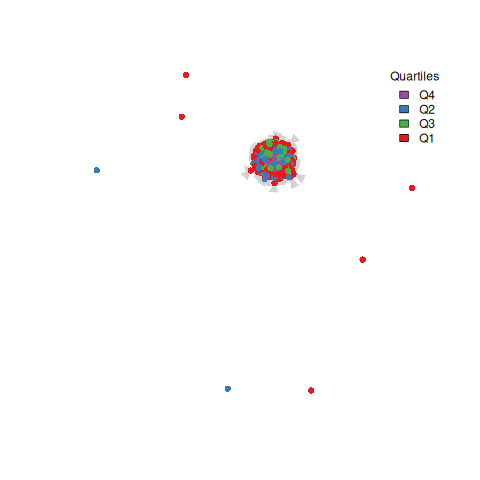
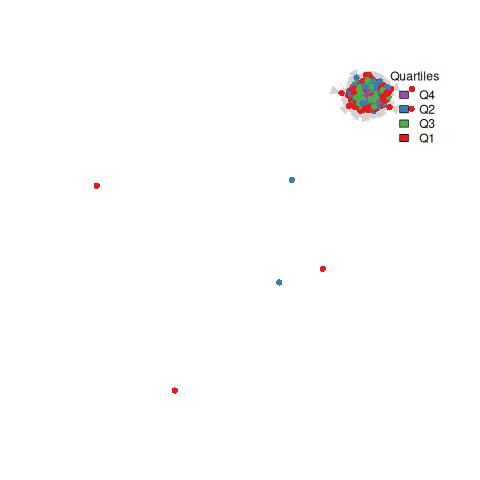
Added to readme the comparison of degree

diff --git a/README.md b/README.md
@@ -4,50 +4,319 @@
 
 ### Graphical evolution
 
-|2021-06-01,2021-12-31|![](images/directed/first/general_Q1.png)|![](images/directed/first/general_Q2.png)|![](images/directed/first/general_Q3.png)|![](images/directed/first/general_Q4.png)|
+|2021-06-01 -> 2021-12-31|![](images/directed/first/general_Q1.png)|![](images/directed/first/general_Q2.png)|![](images/directed/first/general_Q3.png)|![](images/directed/first/general_Q4.png)|
 |---|---|---|---|---|
-|2022-01-01,2022-05-31|![](images/directed/second/general_Q1.png)|![](images/directed/second/general_Q2.png)|![](images/directed/second/general_Q3.png)|![](images/directed/second/general_Q4.png)|
-|2022-06-01,2022-12-31|![](images/directed/third/general_Q1.png)|![](images/directed/third/general_Q2.png)|![](images/directed/third/general_Q3.png)|![](images/directed/third/general_Q4.png)|
-|2023-01-01,2023-05-31|![](images/directed/fourth/general_Q1.png)|![](images/directed/fourth/general_Q2.png)|![](images/directed/fourth/general_Q3.png)|![](images/directed/fourth/general_Q4.png)|
-|2023-06-01,2023-12-31|![](images/directed/fifth/general_Q1.png)|![](images/directed/fifth/general_Q2.png)|![](images/directed/fifth/general_Q3.png)|![](images/directed/fifth/general_Q4.png)|
+|2022-01-01 -> 2022-05-31|![](images/directed/second/general_Q1.png)|![](images/directed/second/general_Q2.png)|![](images/directed/second/general_Q3.png)|![](images/directed/second/general_Q4.png)|
+|2022-06-01 -> 2022-12-31|![](images/directed/third/general_Q1.png)|![](images/directed/third/general_Q2.png)|![](images/directed/third/general_Q3.png)|![](images/directed/third/general_Q4.png)|
+|2023-01-01 -> 2023-05-31|![](images/directed/fourth/general_Q1.png)|![](images/directed/fourth/general_Q2.png)|![](images/directed/fourth/general_Q3.png)|![](images/directed/fourth/general_Q4.png)|
+|2023-06-01 -> 2023-12-31|![](images/directed/fifth/general_Q1.png)|![](images/directed/fifth/general_Q2.png)|![](images/directed/fifth/general_Q3.png)|![](images/directed/fifth/general_Q4.png)|
 
 ### Analysis
 
 #### Degree distribution
 
-The following are the top 10 nodes for degree values (without loops).
+##### First period
 
-|     | Author     | Degree |
-|-----|------------|--------|
-| 1   | k00b       | 181    |
-| 2   | nout       | 94     |
-| 3   | CypherPoet | 59     |
-| 4   | DarthCoin  | 58     |
-| 5   | dergigi    | 53     |
-| 6   | ugmug      | 51     |
-| 7   | relc       | 50     |
-| 8   | gmd        | 46     |
-| 9   | jimmysong  | 46     |
-| 10  | g4ala      | 40     |
+**TOTAL DEGREE TABLE**
 
--   Mean degree: 6.61875
--   Median degree: 2
+|   | author      | in_degr | out_degr | tot_degr |
+|---|-------------|---------|----------|----------|
+| 1 | k00b        | 152     | 171      | 323      |
+| 2 | nout        | 77      | 77       | 154      |
+| 3 | DarthCoin   | 49      | 52       | 101      |
+| 4 | ugmug       | 40      | 47       | 87       |
+| 5 | dergigi     | 48      | 38       | 86       |
+| 6 | gmd         | 38      | 44       | 82       |
+| 7 | relc        | 28      | 50       | 78       |
+| 8 | CypherPoet  | 53      | 24       | 77       |
+| 9 | jimmysong   | 47      | 28       | 75       |
+|10 | g4ala       | 32      | 35       | 67       |
 
-![](images/first/degree_distribution.png)
+-   Mean degree: 10.38037
+-   Median degree: 3
 
-The following moderators were active during this time period:
+**IN-DEGREE TABLE**
 
-|     | Author       | Degree |
-|-----|--------------|--------|
-| 1   | k00b         | 181    |
-| 2   | kr           | 27     |
-| 3   | benthecarman | 1      |
+|   | author      | in_degr | out_degr | tot_degr |
+|---|-------------|---------|----------|----------|
+| 1 | k00b        | 152     | 171      | 323      |
+| 2 | nout        | 77      | 77       | 154      |
+| 3 | CypherPoet  | 53      | 24       | 77       |
+| 4 | DarthCoin   | 49      | 52       | 101      |
+| 5 | dergigi     | 48      | 38       | 86       |
+| 6 | jimmysong   | 47      | 28       | 75       |
+| 7 | ugmug       | 40      | 47       | 87       |
+| 8 | gmd         | 38      | 44       | 82       |
+| 9 | g4ala       | 32      | 35       | 67       |
+|10 | relc        | 28      | 50       | 78       |
 
+- Mean degree: 5.190184
+- Median degree: 1
+
+**OUT-DEGREE TABLE**
+
+|   | author      | in_degr | out_degr | tot_degr |
+|---|-------------|---------|----------|----------|
+| 1 | k00b        | 152     | 171      | 323      |
+| 2 | nout        | 77      | 77       | 154      |
+| 3 | DarthCoin   | 49      | 52       | 101      |
+| 4 | relc        | 28      | 50       | 78       |
+| 5 | ugmug       | 40      | 47       | 87       |
+| 6 | gmd         | 38      | 44       | 82       |
+| 7 | dergigi     | 48      | 38       | 86       |
+| 8 | g4ala       | 32      | 35       | 67       |
+| 9 | ThrillerX   | 20      | 32       | 52       |
+|10 | jimmysong   | 47      | 28       | 75       |
+
+- Mean degree: 5.190184
+- Median degree: 1
+
+**CONTRIBUTORS DEGREE**
+
+![](images/directed/first/general_contributors_degree.png)
+
+##### Second period
+
+**TOTAL DEGREE TABLE**
+
+|   | author        | in_degr | out_degr | tot_degr |
+|---|---------------|---------|----------|----------|
+| 1 | k00b          | 287     | 354      | 641      |
+| 2 | DarthCoin     | 188     | 218      | 406      |
+| 3 | nout          | 172     | 215      | 387      |
+| 4 | cryptocoin    | 158     | 200      | 358      |
+| 5 | TheBTCManual  | 91      | 151      | 242      |
+| 6 | zuspotirko    | 98      | 128      | 226      |
+| 7 | kr            | 132     | 89       | 221      |
+| 8 | cointastical  | 104     | 112      | 216      |
+| 9 | Majjin        | 75      | 115      | 190      |
+|10 | kilianbuhn    | 88      | 102      | 190      |
+
+-   Mean degree: 19.88305
+-   Median degree: 4
+
+**IN-DEGREE TABLE**
+
+|   | author        | in_degr | out_degr | tot_degr |
+|---|---------------|---------|----------|----------|
+| 1 | k00b          | 287     | 354      | 641      |
+| 2 | DarthCoin     | 188     | 218      | 406      |
+| 3 | nout          | 172     | 215      | 387      |
+| 4 | cryptocoin    | 158     | 200      | 358      |
+| 5 | saloon        | 153     | 0        | 153      |
+| 6 | kr            | 132     | 89       | 221      |
+| 7 | UlfMoby       | 114     | 64       | 178      |
+| 8 | CypherPoet    | 108     | 33       | 141      |
+| 9 | cointastical  | 104     | 112      | 216      |
+|10 | zuspotirko    | 98      | 128      | 226      |
+
+- Mean degree: 9.941527
+- Median degree: 2
+
+**OUT-DEGREE TABLE**
+
+|   | author        | in_degr | out_degr | tot_degr |
+|---|---------------|---------|----------|----------|
+| 1 | k00b          | 287     | 354      | 641      |
+| 2 | DarthCoin     | 188     | 218      | 406      |
+| 3 | nout          | 172     | 215      | 387      |
+| 4 | cryptocoin    | 158     | 200      | 358      |
+| 5 | TheBTCManual  | 91      | 151      | 242      |
+| 6 | zuspotirko    | 98      | 128      | 226      |
+| 7 | Majjin        | 75      | 115      | 190      |
+| 8 | cointastical  | 104     | 112      | 216      |
+| 9 | BlokchainB    | 83      | 106      | 189      |
+|10 | kilianbuhn    | 88      | 102      | 190      |
+
+- Mean degree: 9.941527
+- Median degree: 2
+
+**CONTRIBUTORS DEGREE**
+
+![](images/directed/second/general_contributors_degree.png)
+
+##### Third period
+
+**TOTAL DEGREE TABLE**
+
+|   | author          | in_degr | out_degr | tot_degr |
+|---|-----------------|---------|----------|----------|
+| 1 | k00b            | 588     | 617      | 1205     |
+| 2 | DarthCoin       | 386     | 537      | 923      |
+| 3 | cryptocoin      | 406     | 445      | 851      |
+| 4 | kr              | 475     | 248      | 723      |
+| 5 | nym             | 38      | 646      | 684      |
+| 6 | siggy47         | 267     | 330      | 597      |
+| 7 | nerd2ninja      | 231     | 342      | 573      |
+| 8 | tomlaies        | 274     | 293      | 567      |
+| 9 | faithandcredit  | 238     | 308      | 546      |
+|10 | kilianbuhn      | 219     | 291      | 510      |
+
+-   Mean degree: 29.33725
+-   Median degree: 5
+
+**IN-DEGREE TABLE**
+
+|   | author          | in_degr | out_degr | tot_degr |
+|---|-----------------|---------|----------|----------|
+| 1 | k00b            | 588     | 617      | 1205     |
+| 2 | kr              | 475     | 248      | 723      |
+| 3 | cryptocoin      | 406     | 445      | 851      |
+| 4 | DarthCoin       | 386     | 537      | 923      |
+| 5 | saloon          | 331     | 0        | 331      |
+| 6 | sn              | 325     | 8        | 333      |
+| 7 | tomlaies        | 274     | 293      | 567      |
+| 8 | siggy47         | 267     | 330      | 597      |
+| 9 | faithandcredit  | 238     | 308      | 546      |
+|10 | User21000000    | 236     | 158      | 394      |
+
+- Mean degree: 14.66863
+- Median degree: 3
+
+**OUT-DEGREE TABLE**
+
+|   | author          | in_degr | out_degr | tot_degr |
+|---|-----------------|---------|----------|----------|
+| 1 | nym             | 38      | 646      | 684      |
+| 2 | k00b            | 588     | 617      | 1205     |
+| 3 | DarthCoin       | 386     | 537      | 923      |
+| 4 | cryptocoin      | 406     | 445      | 851      |
+| 5 | nerd2ninja      | 231     | 342      | 573      |
+| 6 | siggy47         | 267     | 330      | 597      |
+| 7 | TheBTCManual    | 170     | 316      | 486      |
+| 8 | faithandcredit  | 238     | 308      | 546      |
+| 9 | selfish         | 77      | 300      | 377      |
+|10 | tomlaies        | 274     | 293      | 567      |
+
+- Mean degree: 14.66863
+- Median degree: 2
+
+**CONTRIBUTORS DEGREE**
+
+![](images/directed/third/general_contributors_degree.png)
+
+##### Fourth period
+
+**TOTAL DEGREE TABLE**
+
+|   | author             | in_degr | out_degr | tot_degr |
+|---|--------------------|---------|----------|----------|
+| 1 | DarthCoin          | 576     | 737      | 1313     |
+| 2 | siggy47            | 427     | 532      | 959      |
+| 3 | k00b               | 394     | 329      | 723      |
+| 4 | nym                | 137     | 530      | 667      |
+| 5 | ekzyis             | 296     | 322      | 618      |
+| 6 | TNStacker          | 164     | 452      | 616      |
+| 7 | BitcoinIsTheFuture | 263     | 320      | 583      |
+| 8 | kepford            | 163     | 404      | 567      |
+| 9 | kr                 | 333     | 226      | 559      |
+|10 | sn                 | 507     | 16       | 523      |
+
+-   Mean degree: 24.50309
+-   Median degree: 5
+
+**IN-DEGREE TABLE**
+
+|   | author             | in_degr | out_degr | tot_degr |
+|---|--------------------|---------|----------|----------|
+| 1 | DarthCoin          | 576     | 737      | 1313     |
+| 2 | sn                 | 507     | 16       | 523      |
+| 3 | siggy47            | 427     | 532      | 959      |
+| 4 | k00b               | 394     | 329      | 723      |
+| 5 | kr                 | 333     | 226      | 559      |
+| 6 | ekzyis             | 296     | 322      | 618      |
+| 7 | saloon             | 288     | 0        | 288      |
+| 8 | BitcoinIsTheFuture | 263     | 320      | 583      |
+| 9 | cryptocoin         | 240     | 223      | 463      |
+|10 | grayruby           | 210     | 271      | 481      |
+
+- Mean degree: 12.25155
+- Median degree: 3
+
+**OUT-DEGREE TABLE**
+
+|   | author          | in_degr | out_degr | tot_degr |
+|---|-----------------|---------|----------|----------|
+| 1 | nym             | 38      | 646      | 684      |
+| 2 | k00b            | 588     | 617      | 1205     |
+| 3 | DarthCoin       | 386     | 537      | 923      |
+| 4 | cryptocoin      | 406     | 445      | 851      |
+| 5 | nerd2ninja      | 231     | 342      | 573      |
+| 6 | siggy47         | 267     | 330      | 597      |
+| 7 | TheBTCManual    | 170     | 316      | 486      |
+| 8 | faithandcredit  | 238     | 308      | 546      |
+| 9 | selfish         | 77      | 300      | 377      |
+|10 | tomlaies        | 274     | 293      | 567      |
+
+- Mean degree: 12.25155
+- Median degree: 2
+
+**CONTRIBUTORS DEGREE**
+
+![](images/directed/fourth/general_contributors_degree.png)
+
+##### Fifth period
+
+**TOTAL DEGREE TABLE**
+
+|   | author       | in_degr | out_degr | tot_degr |
+|---|--------------|---------|----------|----------|
+| 1 | birdeye21    | 628     | 338      | 966      |
+| 2 | DarthCoin    | 393     | 540      | 933      |
+| 3 | siggy47      | 387     | 511      | 898      |
+| 4 | k00b         | 475     | 404      | 879      |
+| 5 | kepford      | 222     | 465      | 687      |
+| 6 | ekzyis       | 309     | 318      | 627      |
+| 7 | nemo         | 228     | 381      | 609      |
+| 8 | sn           | 502     | 19       | 521      |
+| 9 | grayruby     | 217     | 261      | 478      |
+|10 | mallardshead | 207     | 241      | 448      |
+
+-   Mean degree:31.73962
+-   Median degree: 6
+
+**IN-DEGREE TABLE**
+
+|   | author           | in_degr | out_degr | tot_degr |
+|---|------------------|---------|----------|----------|
+| 1 | birdeye21        | 628     | 338      | 966      |
+| 2 | sn               | 502     | 19       | 521      |
+| 3 | k00b             | 475     | 404      | 879      |
+| 4 | DarthCoin        | 393     | 540      | 933      |
+| 5 | siggy47          | 387     | 511      | 898      |
+| 6 | ekzyis           | 309     | 318      | 627      |
+| 7 | kr               | 270     | 114      | 384      |
+| 8 | saloon           | 247     | 1        | 248      |
+| 9 | AR0w             | 242     | 60       | 302      |
+|10 | Thatfunkymonkey  | 232     | 204      | 436      |
+
+- Mean degree: 15.86981
+- Median degree: 3
+
+**OUT-DEGREE TABLE**
+
+|   | author          | in_degr | out_degr | tot_degr |
+|---|-----------------|---------|----------|----------|
+| 1 | DarthCoin       | 393     | 540      | 933      |
+| 2 | siggy47         | 387     | 511      | 898      |
+| 3 | kepford         | 222     | 465      | 687      |
+| 4 | k00b            | 475     | 404      | 879      |
+| 5 | nemo            | 228     | 381      | 609      |
+| 6 | birdeye21       | 628     | 338      | 966      |
+| 7 | nym             | 59      | 320      | 379      |
+| 8 | ekzyis          | 309     | 318      | 627      |
+| 9 | carlosfandango  | 135     | 281      | 416      |
+|10 | grayruby        | 217     | 261      | 478      |
+
+- Mean degree: 15.86981
+- Median degree: 3
+
+**CONTRIBUTORS DEGREE**
+
+![](images/directed/fifth/general_contributors_degree.png)
+
+### -----------------------------------------------------------------------
 #### Components
-
-The network is divided into 6 components, with a **giant component** composed by 315 nodes and five small components with 1 node each. The components containing only one node are in fact users that posted in the forum without receiving comments. This behaviour can be observed even by looking at the picture about the first period graph, in which some isolated nodes are clearly visible. Some of them ever received a considerable amount of sats for their posts (2 of the 5 are in the 3rd quartile in terms of sats stacked), but their posts didn't trigger any discussion.
-
-Overall the totality of 'Q4' nodes are in the middle of the giant component, meaning that the ones that earned the most are the ones that actually are more engaged in this initial period of the life of the forum.
 
 #### Path
 
